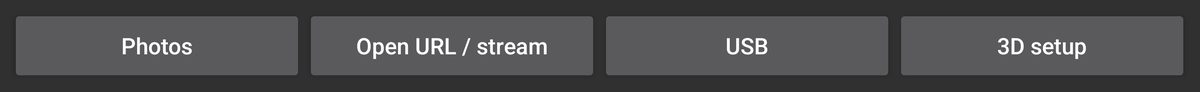
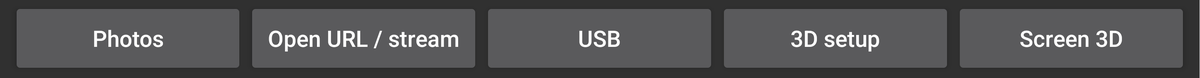
README: English screenshots for Screen 3D and the five-button list row

Changed region(s): [[0.0, 0.1026, 0.9867, 0.8718], [0.8325, 0.3846, 0.9558, 0.641]]

diff --git a/README.md b/README.md
@@ -387,6 +387,8 @@ Play a side-by-side video in another app such as YouTube, and watch that screen 
 
    ![The 3D tile in Quick Settings](docs/images/screen3d-tile.png)
 
+   ![The Screen 3D button on the list screen (portrait)](docs/images/screen3d-list-button-en.png)
+
    - The first time DepthFlix opens it asks once whether to add the tile. Android does not let an app add its own tile, so you have to tap **Add** yourself. To add it later, drag "3D" in from the panel's edit screen.
 2. **Pick the app**: when the screen-sharing window appears, leave it on **"Share one app"**, tap **Next**, and choose the app to watch in 3D.
    - "Share entire screen" does not work: the 3D picture the app draws would be captured again and fill the screen with thin lines. If you choose it, the app notices and asks again.
@@ -396,6 +398,8 @@ Play a side-by-side video in another app such as YouTube, and watch that screen 
 
    - The button can be dragged anywhere. A long press ends Screen 3D (so does tapping the tile again).
 4. **Adjust**: while in 3D, **swipe from right to left** and a menu comes in on the right. It hides itself shortly after you change something.
+
+   ![The menu, opened while watching in 3D](docs/images/screen3d-menu-en.png)
 
    | Menu | What it does |
    |---|---|
